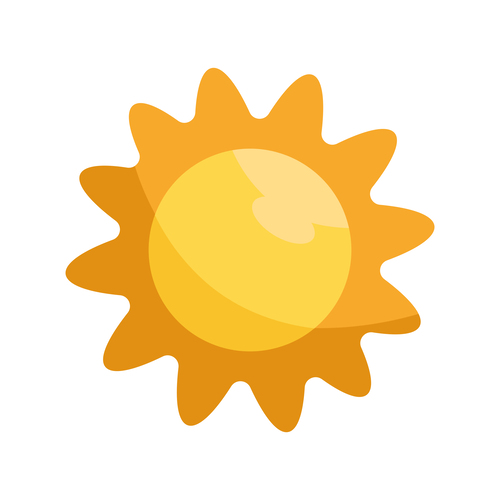
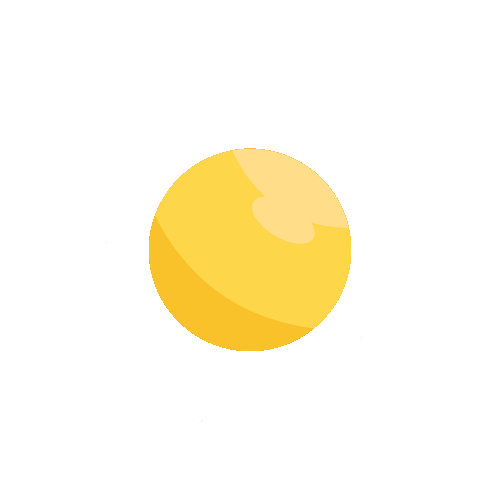
add sun display
authered-by xu zexuan

Changed region(s): [[0.12, 0.12, 0.87, 0.87]]

diff --git a/display.py b/display.py
@@ -38,26 +38,111 @@ class GridDisplay:
         for entity_type, path in self.config["EntityPath"].items():
             entities[entity_type] = pg.image.load(path).convert_alpha()
         return entities
-    
+
+    def set_colorkey_with_tolerance(self, image, colorkey, tolerance):
+        # Convert the image to use an alpha channel
+        image = image.convert_alpha()
+
+        # Get the width and height of the image
+        width, height = image.get_size()
+
+        # Iterate over each pixel in the image
+        for y in range(height):
+            for x in range(width):
+                # Get the color of the current pixel
+                current_color = image.get_at((x, y))
+
+                # If the current color is white, set the alpha value to 0 (fully transparent)
+                if current_color == colorkey:
+                    image.set_at((x, y), (0, 0, 0, 0))  # Set alpha to 0 (fully transparent)
+                else:
+                    # Calculate the difference between the current color and the color key
+                    color_diff = abs(current_color[0] - colorkey[0]) + \
+                                 abs(current_color[1] - colorkey[1]) + \
+                                 abs(current_color[2] - colorkey[2])
+
+                    # If the difference is within the tolerance level, set the alpha value to 0 (fully transparent)
+                    if color_diff <= tolerance:
+                        current_color[3] = 0  # Set alpha to 0 (fully transparent)
+
+                        # Update the pixel with the modified color
+                        image.set_at((x, y), current_color)
+
+        # Set the color key to None since we're using alpha transparency
+        image.set_colorkey(None)
+
+        return image
     # AFFICHER LES CASES
     def __draw_tiles(self):
         for i in range(self.world.grid.shape[0]):
             for j in range(self.world.grid.shape[1]):
                 if self.world.grid[i, j] != 0:
-                    # Calcul de l'opacité en fonction de la profondeur
-                    depth = j / self.world.grid.shape[1]
-                    opacity = int(255 - (depth * 255))  # Calcul de l'opacité en fonction de la profondeur
-                    opacity = max(0, min(255, opacity))
+                    if self.world.grid[i, j].case_type == "Sun":
+                        if self.world.sun:
+                            tile_image = pg.image.load("image/Sun.jpg").convert()
+                            tile_image = self.set_colorkey_with_tolerance(tile_image, (255, 255, 255), 50)
+                            resized_image = pg.transform.scale(tile_image, (self.cell_size * 3, self.cell_size * 3))
+                            cell_rect = pg.Rect(i * self.cell_size, j * self.cell_size, self.cell_size,
+                                                self.cell_size)
+                            self.screen.blit(resized_image, cell_rect)
+                            if self.world.light > 2:
+                                if self.world.light <= 4:
+                                    tile_image = pg.image.load("image/Sun_type_1.jpg").convert()
+                                    tile_image = self.set_colorkey_with_tolerance(tile_image, (255, 255, 255), 50)
+                                    resized_image = pg.transform.scale(tile_image,
+                                                                       (self.cell_size * 3, self.cell_size * 3))
+                                    cell_rect = pg.Rect(i * self.cell_size, j * self.cell_size, self.cell_size,
+                                                        self.cell_size)
+                                    self.screen.blit(resized_image, cell_rect)
+                                elif self.world.light <=6:
 
-                    # Récupération de l'image de la case (et redimensionnement, opacité)
-                    tile_type = self.world.grid[i, j].case_type
-                    tile_image = self.tiles.get(tile_type)
-                    resized_image = pg.transform.scale(tile_image, (self.cell_size, self.cell_size))
-                    resized_image.set_alpha(opacity)
+                                    tile_image = pg.image.load("image/Sun_type_2.jpg").convert()
+                                    tile_image = self.set_colorkey_with_tolerance(tile_image, (255, 255, 255), 50)
+                                    resized_image = pg.transform.scale(tile_image,
+                                                                       (self.cell_size * 3, self.cell_size * 3))
+                                    cell_rect = pg.Rect(i * self.cell_size, j * self.cell_size, self.cell_size,
+                                                        self.cell_size)
+                                    self.screen.blit(resized_image, cell_rect)
+                                elif self.world. light <=8:
+                                    tile_image = pg.image.load("image/Sun_type_3.jpg").convert()
+                                    tile_image = self.set_colorkey_with_tolerance(tile_image, (255, 255, 255), 50)
+                                    resized_image = pg.transform.scale(tile_image,
+                                                                       (self.cell_size * 3, self.cell_size * 3))
+                                    cell_rect = pg.Rect(i * self.cell_size, j * self.cell_size, self.cell_size,
+                                                        self.cell_size)
+                                    self.screen.blit(resized_image, cell_rect)
+                                elif self.world. light <=10:
+                                    tile_image = pg.image.load("image/Sun_type_4.jpg").convert()
+                                    tile_image = self.set_colorkey_with_tolerance(tile_image, (255, 255, 255), 50)
+                                    resized_image = pg.transform.scale(tile_image,
+                                                                       (self.cell_size * 3, self.cell_size * 3))
+                                    cell_rect = pg.Rect(i * self.cell_size, j * self.cell_size, self.cell_size,
+                                                        self.cell_size)
+                                    self.screen.blit(resized_image, cell_rect)
 
-                    # Affichage de l'image
-                    cell_rect = pg.Rect(i * self.cell_size, j * self.cell_size, self.cell_size, self.cell_size)
-                    self.screen.blit(resized_image, cell_rect)
+                        else:
+                            tile_image = pg.image.load("image/DeadSun.jpg").convert()
+                            tile_image = self.set_colorkey_with_tolerance(tile_image, (255, 255, 255), 50)
+                            resized_image = pg.transform.scale(tile_image, (self.cell_size * 3, self.cell_size * 3))
+                            cell_rect = pg.Rect(i * self.cell_size, j * self.cell_size, self.cell_size,
+                                                self.cell_size)
+                            self.screen.blit(resized_image, cell_rect)
+                    else:
+                        # Calcul de l'opacité en fonction de la profondeur
+                        depth = j / self.world.grid.shape[1]
+                        opacity = int(255 - (depth * 255))  # Calcul de l'opacité en fonction de la profondeur
+                        opacity = max(0, min(255, opacity))
+                        # Récupération de l'image de la case (et redimensionnement, opacité)
+                        tile_type = self.world.grid[i, j].case_type
+                        tile_image = self.tiles.get(tile_type)
+                        resized_image = pg.transform.scale(tile_image, (self.cell_size, self.cell_size))
+                        resized_image.set_alpha(opacity)
+
+                        # Affichage de l'image
+                        cell_rect = pg.Rect(i * self.cell_size, j * self.cell_size, self.cell_size, self.cell_size)
+                        self.screen.blit(resized_image, cell_rect)
+
+
 
     # AFFICHER LA GRILLE
     def __draw_grid(self) -> None:

diff --git a/controller_ui.py b/controller_ui.py
@@ -13,12 +13,24 @@ class ControllerUI:
             print("temperature +1 ")
             self.world.temperature += 1
         if event_key == pg.K_w:
-            if self.world.light != 1:
-                print("light -1 ")
-                self.world.light -= 1
+            if self.world.sun:
+                if self.world.light != 1:
+                    print("light -1 ")
+                    self.world.light -= 1
+                elif self.world.light == 1:
+                    print("unlight sun")
+                    self.world.light -= 1
+                    self.world.sun = False
         elif event_key == pg.K_x:
-            if self.world.light != 10:
-                print("light +1 ")
+            if self.world.sun:
+                if self.world.light != 10:
+                    print("light +1 ")
+                    self.world.light += 1
+            else:
+                print("relight sun")
                 self.world.light += 1
+                self.world.sun = True
+
+
         else:
             pass

diff --git a/world.py b/world.py
@@ -114,6 +114,8 @@ class World:
     def set_case(self, x: int, y: int, type: str):
         if type == "S":
             self.grid[(x, y)] = SurfaceSea()
+        elif type == "Sun":
+            self.grid[(x, y)] = Sun()
         elif type == "M":
             self.grid[(x, y)] = CaseSea()
         elif type == "C":
@@ -156,6 +158,7 @@ class World:
 
         line_values = ['.'] * sky_layers + ['S'] * surfacesea_layers + ['M'] * sea_layers + ['D'] * deepsea_layers
         world_matrix = [[value] * self.j_size for value in line_values]
+        world_matrix[0][self.j_size//2] = "Sun"
         self.generate_random_floor(world_matrix, sky_layers)
         for i in range(self.i_size):
             for j in range(self.j_size):
